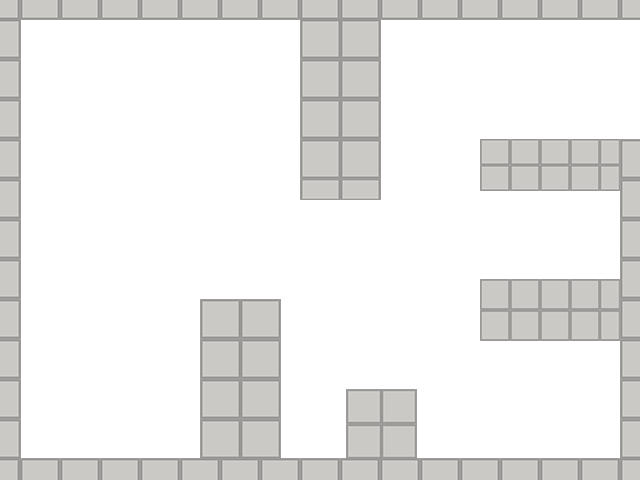
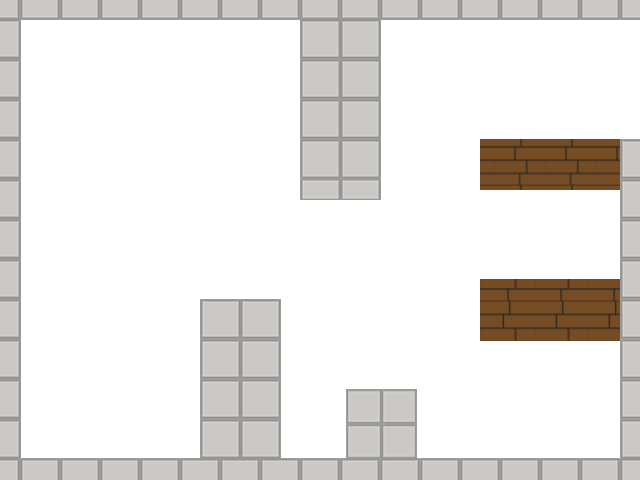
tekstuuri muudatus

Changed region(s): [[0.75, 0.5625, 0.9688, 0.7188], [0.75, 0.2812, 0.9688, 0.4062]]

diff --git a/Pygame_basic.py b/Pygame_basic.py
@@ -16,7 +16,7 @@ pygame.init()
 
 window = pygame.display.set_mode([sw,sh])
 taust = pygame.image.load("forest.png") ####################################### tausta laadimine
-seinad1 = pygame.image.load("level2.png")    ####################################### seina laadimine
+seinad1 = pygame.image.load("level3.png")    ####################################### seina laadimine
 
 class Person:
     def __init__(self,x,y,colour,drone=False,route=None):
